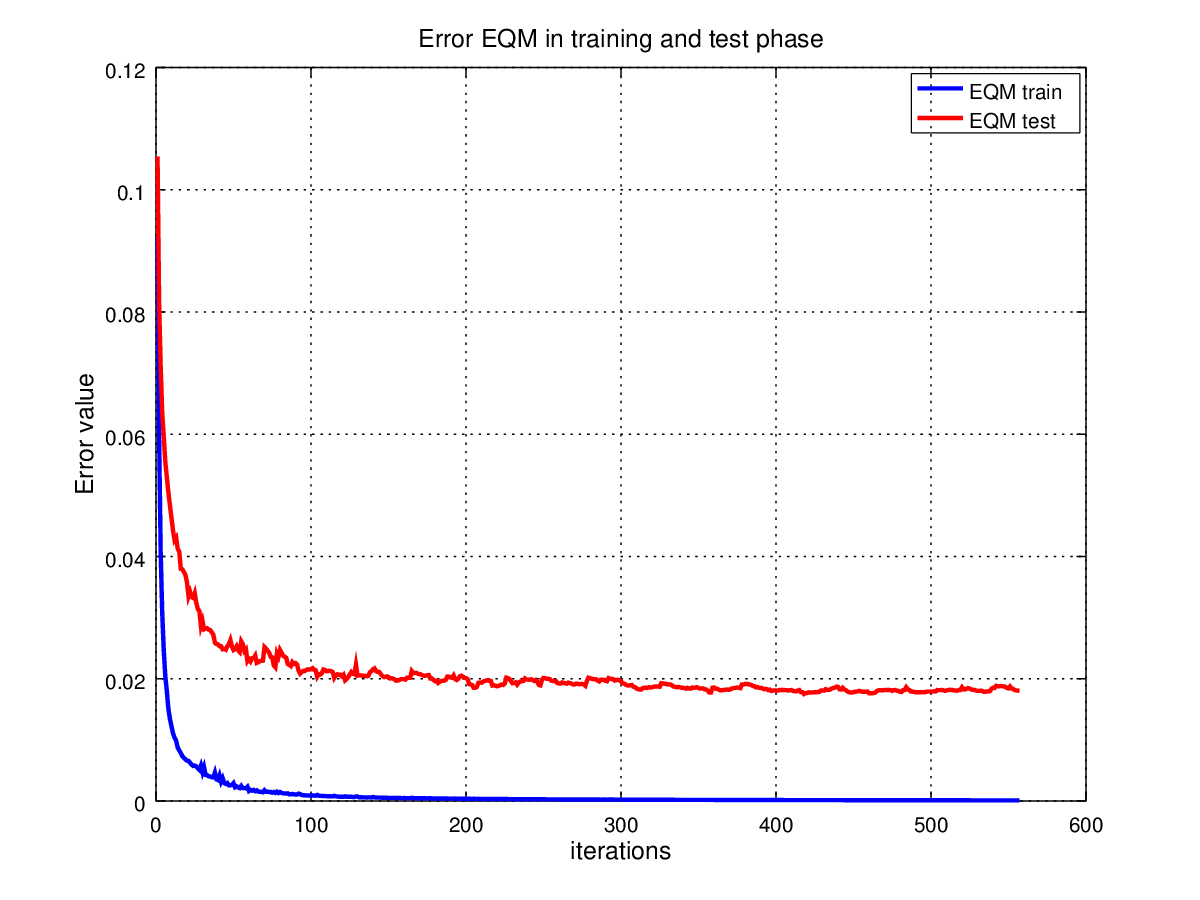
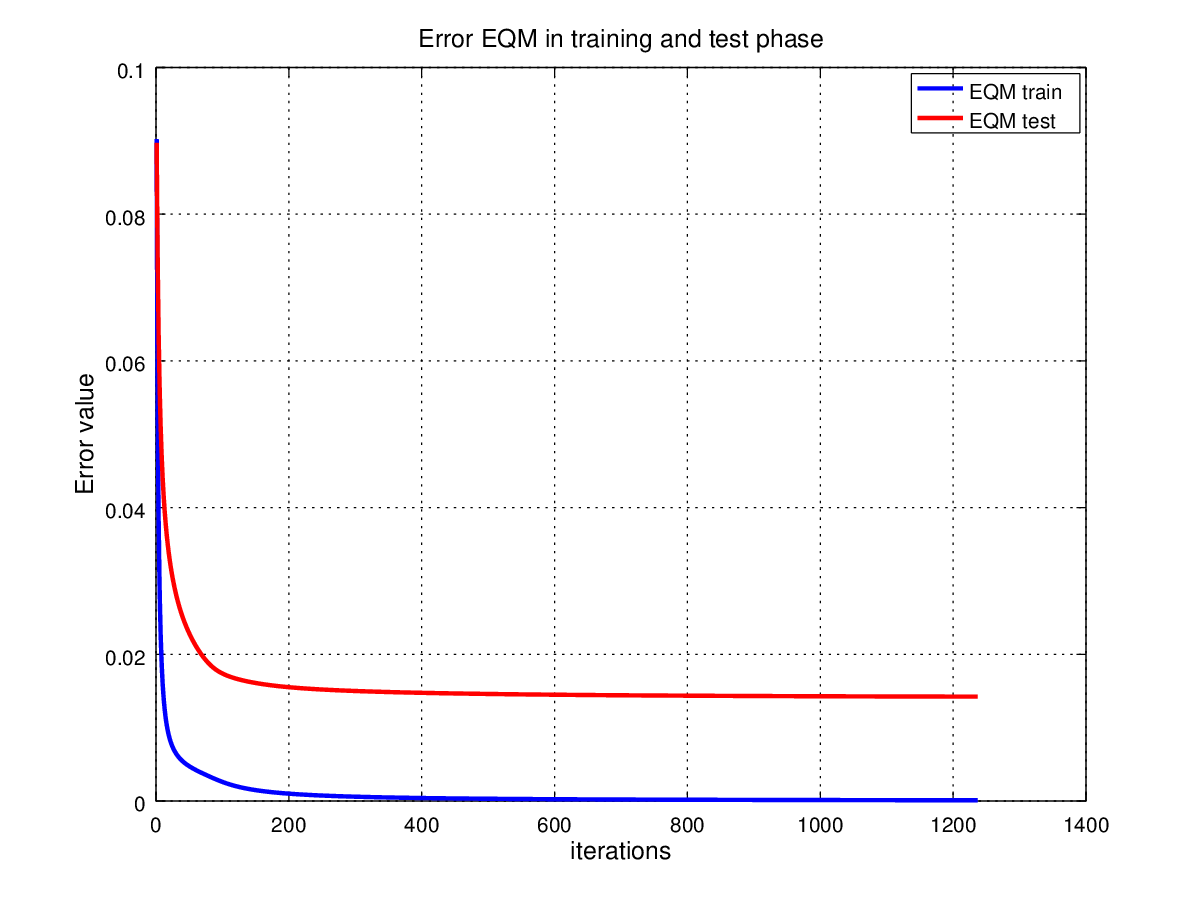
imagenes necesarias y o modificadas

diff --git a/OctaveNeurons/rs3.m b/OctaveNeurons/rs3.m
@@ -163,16 +163,12 @@ tic; % init counter time
 %% --------------------
 while(boucle==1)
     %reorganisation des examples
-    t(1:3:end) = 1+3*(randperm(20) -1);
-    t(2:3:end) = 2+3*(randperm(20) -1);
-    t(3:3:end) = 3+3*(randperm(20) -1);
-    %reorganisation examples de test
-    tt(1:3:end) = 1+3*(randperm(5) -1);
-    tt(2:3:end) = 2+3*(randperm(5) -1);
-    tt(3:3:end) = 3+3*(randperm(5) -1);
+    % t(1:3:end) = 1+3*(randperm(20) -1);
+    % t(2:3:end) = 2+3*(randperm(20) -1);
+    % t(3:3:end) = 3+3*(randperm(20) -1);
+    t = 1:60;
 
     for i = 1:60
-
         %% calcul de sortie de couchee cachee
         vj = C'*input(:,t(i));
         r =sigmoide(vj);
@@ -225,6 +221,11 @@ while(boucle==1)
     %% --------------------
     %  TEST LOOP
     %% --------------------
+    %reorganisation examples de test
+    % tt(1:3:end) = 1+3*(randperm(5) -1);
+    % tt(2:3:end) = 2+3*(randperm(5) -1);
+    % tt(3:3:end) = 3+3*(randperm(5) -1);
+    tt = randperm(15);
     for i = 1:15
         %% calcul de sortie de couchee cachee
         vj_test = C'*input_test(:,tt(i));

diff --git a/OctaveNeurons/rs2.m b/OctaveNeurons/rs2.m
@@ -163,13 +163,15 @@ while(boucle==1)
     t(1:3:end) = 1+3*(randperm(20) -1);
     t(2:3:end) = 2+3*(randperm(20) -1);
     t(3:3:end) = 3+3*(randperm(20) -1);
-    %reorganisation examples de test
-    tt(1:3:end) = 1+3*(randperm(5) -1);
-    tt(2:3:end) = 2+3*(randperm(5) -1);
-    tt(3:3:end) = 3+3*(randperm(5) -1);
+    %t = 1:60;
+
+
 
     for i = 1:60
-
+      %reorganisation examples de test
+      tt(1:3:end) = 1+3*(randperm(5) -1);
+      tt(2:3:end) = 2+3*(randperm(5) -1);
+      tt(3:3:end) = 3+3*(randperm(5) -1);
         %% calcul de sortie de couchee cachee
         vj = C'*input(:,t(i));
         r =sigmoide(vj);
